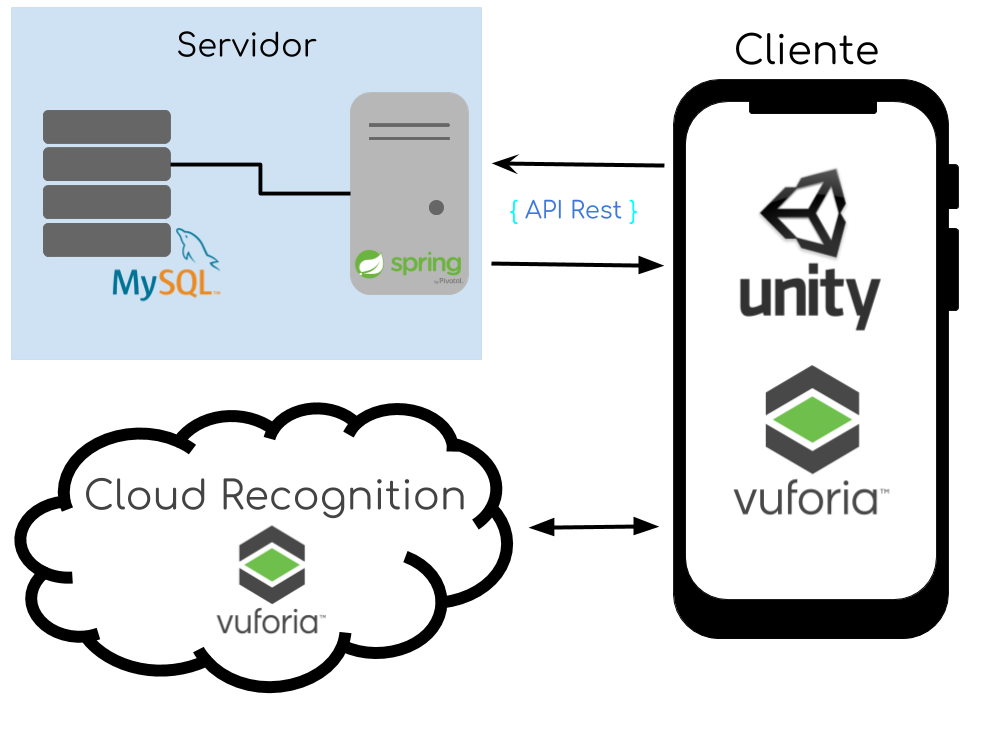
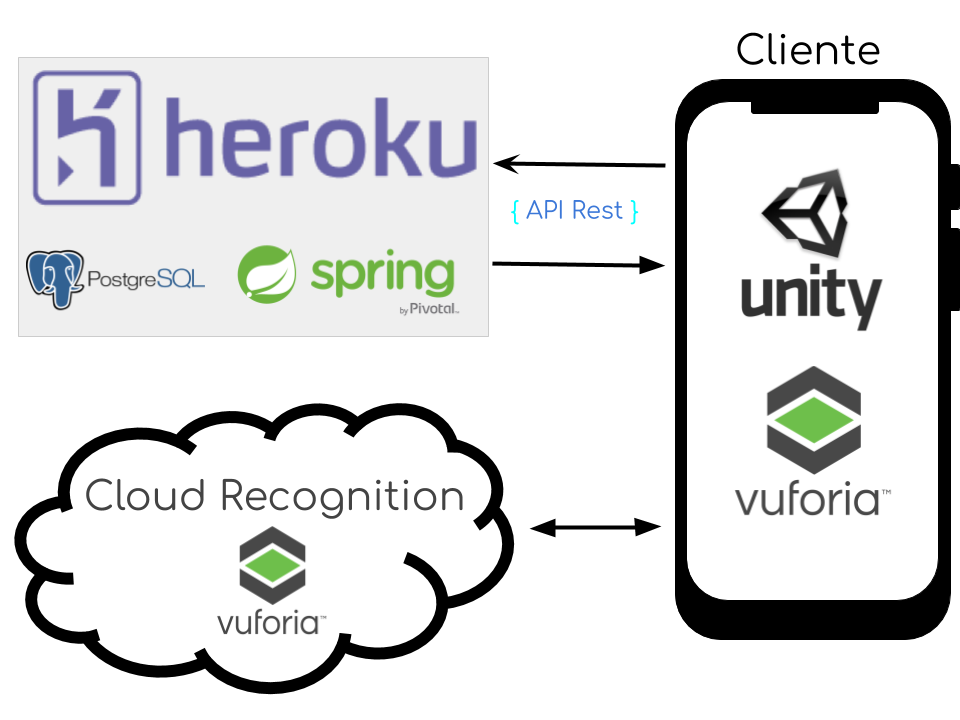
Deleted chapters and new architecture image

diff --git a/chapter7.tex b/chapter7.tex
@@ -9,5 +9,32 @@
 % | LaTeX will automatically number the chapters.
 % +--------------------------------------------------------------------+
 
-\chapter{Trabajo futuro}
+\chapter{Contribución al proyecto}
 \label{makereference7}
+
+\section{Diego Acuña Berger}
+\label{makereference7.1}
+\begin{itemize}
+    \item Funcionalidad para guardar películas mediante realidad aumentada.
+    \item Diseño de las interfaces de usuario de los planes y películas guardadas.  
+    \item Estudio y creación del prototipo de servidor en \textbf{Spring}.
+    \item Revisión ortográfica de la memoria.
+    \item Obtención de imágenes de \textbf{Google Drive} a la aplicación.
+    \item 
+\end{itemize}
+\section{Daniel Calle Sánchez}
+\label{makereference7.2}
+\begin{itemize}  
+    \item Busqueda y configuración de herramientas que mejoren el rendimiento del equipo.
+    \item Creación de prototipo con ViroReact y ARCore.
+    \item Identificación de requisitos funcionales de la aplicación.
+    \item Estudio e implantacion de servicios de autenticación.
+    \item Configuración de Heroku.
+    \item Diseño de la arquitectura.
+\end{itemize}
+
+\section{Carlos Gómez Cereceda}
+\label{makereference7.3}
+
+\section{Zihao Hong}
+\label{makereference7.4}

diff --git a/chapter5.tex b/chapter5.tex
@@ -1,4 +1,4 @@
-% +--------------------------------------------------------------------+
+5% +--------------------------------------------------------------------+
 % | Sample Chapter 5
 % +--------------------------------------------------------------------+
 
@@ -9,11 +9,11 @@
 % | LaTeX will automatically number the chapters.
 % +--------------------------------------------------------------------+
 
-\chapter{Evaluación con usuarios}
+\chapter{Conclusiones}
 \label{makereference5}
 
-\section{Método de evaluación}
+\section{Conclusiones}
 \label{makereference5.1}
 
-\section{Resultado de la evaluación}
+\section{Conclusions}
 \label{makereference5.2}

diff --git a/chapter6.tex b/chapter6.tex
@@ -9,11 +9,5 @@
 % | LaTeX will automatically number the chapters.
 % +--------------------------------------------------------------------+
 
-\chapter{Conclusiones}
+\chapter{Trabajo futuro}
 \label{makereference6}
-
-\section{Conclusiones}
-\label{makereference6.1}
-
-\section{Conclusions}
-\label{makereference6.2}

diff --git a/principal.tex b/principal.tex
@@ -274,8 +274,6 @@
 \input{chapter5.tex}
 \input{chapter6.tex}
 \input{chapter7.tex}
-\input{chapter8.tex}
-\input{chapter9.tex}
 
 % +-------------------------------------------------------------------------+
 % | References                                                              |
